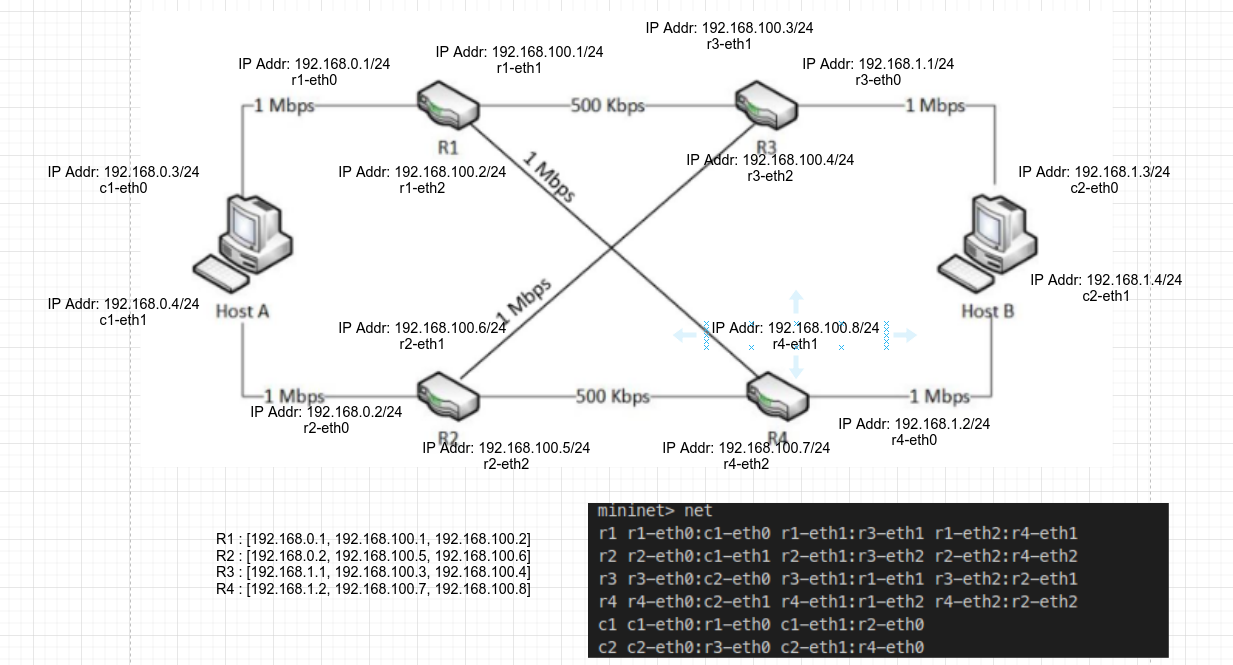
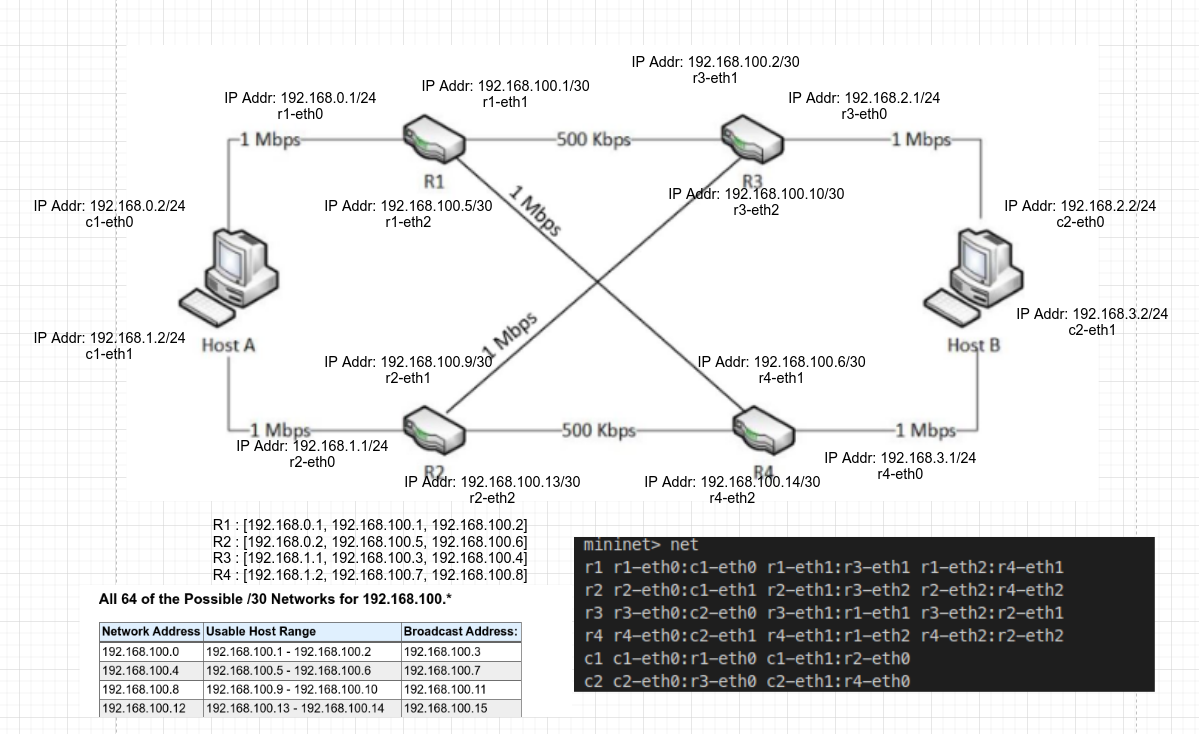
Manual routing is done

Changed region(s): [[0.0309, 0.0301, 0.9875, 0.9925], [0.0309, 0.2406, 0.1543, 0.3308]]

diff --git a/myTopoV2.py b/myTopoV2.py
@@ -1,3 +1,5 @@
+#!/usr/bin/python
+
 # TO DO
 # 1. Selesaikan konfigurasi ip address pada semua Node
 # 2. Selesaikan konfigurasi routing statis pada router
@@ -39,39 +41,71 @@ net.addLink(r2, r3, bw=1)
 net.addLink(r2, r4, bw=0.5)
 
 # Konfigurasi IP Address di C1
-c1.cmd("ifconfig c1-eth0 192.168.0.3/24")
+c1.cmd("ifconfig c1-eth0 192.168.0.2/24")
 c1.cmd("route add default gw 192.168.0.1 c1-eth0")
-c1.cmd("ifconfig c1-eth1 192.168.0.4/24")
-c1.cmd("route add default gw 192.168.0.2 c1-eth1")
+c1.cmd("ifconfig c1-eth1 192.168.1.2/24")
+c1.cmd("route add default gw 192.168.1.1 c1-eth1")
 
 # Konfigurasi IP Address di C2
-c2.cmd("ifconfig c2-eth0 192.168.1.3/24")
-
-c2.cmd("ifconfig c2-eth1 192.168.1.4/24")
+c2.cmd("ifconfig c2-eth0 192.168.2.2/24")
+c2.cmd("route add default gw 192.168.2.1 c2-eth0")
+c2.cmd("ifconfig c2-eth1 192.168.3.2/24")
+c2.cmd("route add default gw 192.168.3.1 c2-eth1")
 
 # Konfigurasi IP Address di R1
 r1.cmd("ifconfig r1-eth0 192.168.0.1/24")
-r1.cmd("ifconfig r1-eth1 192.168.100.1/24")
-r1.cmd("ifconfig r1-eth2 192.168.100.2/24")
+r1.cmd("ifconfig r1-eth1 192.168.100.1/30")
+r1.cmd("ifconfig r1-eth2 192.168.100.5/30")
 r1.cmd("sysctl net.ipv4.ip_forward=1")
+# Manual routing
+# ke 192.168.1.0
+r1.cmd("ip route add 192.168.1.0/24 via 192.168.100.6 dev r1-eth2 onlink")
+# ke 192.168.2.0
+r1.cmd("ip route add 192.168.2.0/24 via 192.168.100.6 dev r1-eth2 onlink")
+# ke 192.168.3.0
+r1.cmd("ip route add 192.168.3.0/24 via 192.168.100.2 dev r1-eth1 onlink")
+
 
 # Konfigurasi IP Address di R2
-r2.cmd("ifconfig r2-eth0 192.168.0.2/24")
-r2.cmd("ifconfig r2-eth1 192.168.100.6/24")
-r2.cmd("ifconfig r2-eth2 192.168.100.5/24")
+r2.cmd("ifconfig r2-eth0 192.168.1.1/24")
+r2.cmd("ifconfig r2-eth1 192.168.100.9/30")
+r2.cmd("ifconfig r2-eth2 192.168.100.13/30")
 r2.cmd("sysctl net.ipv4.ip_forward=1")
+# Manual routing
+# ke 192.168.0.0
+r2.cmd("ip route add 192.168.0.0/24 via 192.168.100.10 dev r2-eth1 onlink")
+# ke 192.168.2.0
+r2.cmd("ip route add 192.168.2.0/24 via 192.168.100.10 dev r2-eth1 onlink")
+# ke 192.168.3.0
+r2.cmd("ip route add 192.168.3.0/24 via 192.168.100.14 dev r2-eth2 onlink")
+
 
 # Konfigurasi IP Address di R3
-r3.cmd("ifconfig r3-eth0 192.168.1.1/24")
-r3.cmd("ifconfig r3-eth1 192.168.100.3/24")
-r3.cmd("ifconfig r3-eth2 192.168.100.4/24")
+r3.cmd("ifconfig r3-eth0 192.168.2.1/24")
+r3.cmd("ifconfig r3-eth1 192.168.100.2/30")
+r3.cmd("ifconfig r3-eth2 192.168.100.10/30")
 r3.cmd("sysctl net.ipv4.ip_forward=1")
+# Manual routing
+# ke 192.168.0.0
+r3.cmd("ip route add 192.168.0.0/24 via 192.168.100.1 dev r3-eth1 onlink")
+# ke 192.168.1.0
+r3.cmd("ip route add 192.168.1.0/24 via 192.168.100.9 dev r3-eth2 onlink")
+# ke 192.168.3.0
+r3.cmd("ip route add 192.168.3.0/24 via 192.168.100.9 dev r3-eth2 onlink")
+
 
 # Konfigurasi IP Address di R4
-r4.cmd("ifconfig r4-eth0 192.168.1.2/24")
-r4.cmd("ifconfig r4-eth1 192.168.100.8/24")
-r4.cmd("ifconfig r4-eth2 192.168.100.7/24")
+r4.cmd("ifconfig r4-eth0 192.168.3.1/24")
+r4.cmd("ifconfig r4-eth1 192.168.100.6/30")
+r4.cmd("ifconfig r4-eth2 192.168.100.14/30")
 r4.cmd("sysctl net.ipv4.ip_forward=1")
+## Manual routing
+# ke 192.168.0.0
+r4.cmd("ip route add 192.168.0.0/24 via 192.168.100.5 dev r4-eth1 onlink")
+# ke 192.168.1.0
+r4.cmd("ip route add 192.168.1.0/24 via 192.168.100.13 dev r4-eth2 onlink")
+# ke 192.168.2.0
+r4.cmd("ip route add 192.168.2.0/24 via 192.168.100.5 dev r4-eth1 onlink")
 
 
 CLI(net)

diff --git a/notes.md b/notes.md
@@ -1,6 +1,6 @@
 ## Topology
 
-<img src="https://media.discordapp.net/attachments/527433841690804224/838456513889959967/2Q.png" width="720">
+<img src="https://media.discordapp.net/attachments/848755541848227850/851095078645923850/unknown.png" width="720">
 
 ### Configuration
 
